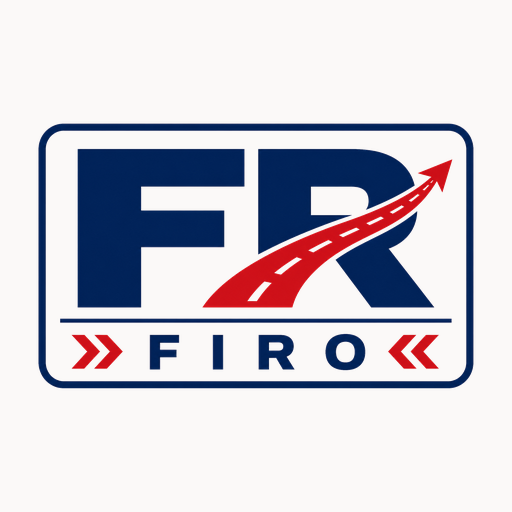
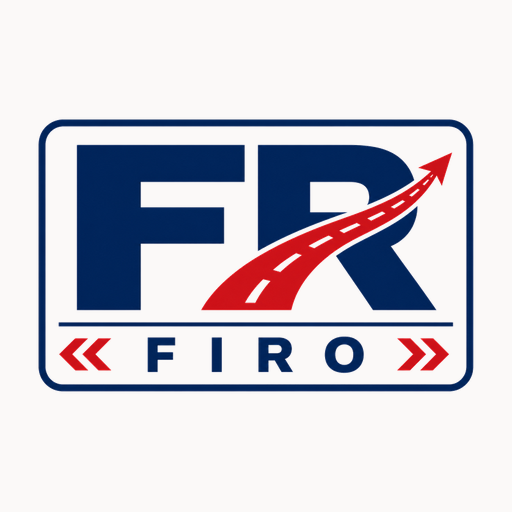
fix: use wide FR badge on login inverse lock-up
Regenerate the approved outward-wing FR/FIRO badge assets and size the
hero inverse mark for the Prisijungimas screen so login no longer shows
the retired spiral wordmark.

diff --git a/tests/unit/approved-first-screens.test.ts b/tests/unit/approved-first-screens.test.ts
@@ -9,11 +9,16 @@ const source = (path: string) => readFileSync(resolve(root, path), 'utf8');
 describe('approved first screens', () => {
   it('uses the approved navy-burgundy transparent FiRo asset on login and driver chrome', () => {
     const brand = source('src/components/firo-brand.tsx');
+    const gate = source('src/components/local-access-gate.tsx');
     expect(brand).toContain('firo-wordmark-color.png');
     expect(brand).toContain('firo-wordmark-inverse.png');
     expect(brand).toContain('resizeMode="contain"');
     expect(brand).toContain('BADGE_ASPECT');
-    expect(source('src/components/local-access-gate.tsx')).toContain('FIRO · FIBONACCI + ROAD');
+    // Login must use the shared inverse wide badge — never a separate spiral asset.
+    expect(gate).toContain('<FiroBrand hero inverse />');
+    expect(gate).not.toContain('firo-wordmark-color-spiral');
+    expect(gate).not.toContain('tsp-logo');
+    expect(gate).toContain('FIRO · FIBONACCI + ROAD');
     expect(source('src/components/brand-header.tsx')).toContain("variant?: 'default' | 'driver'");
   });
 

diff --git a/src/components/firo-brand.tsx b/src/components/firo-brand.tsx
@@ -16,11 +16,12 @@ const inverseWordmarkSource = require('../../assets/brand/firo-wordmark-inverse.
   readonly uri: string;
 };
 
-/** Wide FR / FIRO badge aspect (~1.63). Keep render boxes matched to avoid letterboxing. */
-const BADGE_ASPECT = 720 / 442;
+/** Wide FR / FIRO badge aspect (~1.59). Keep render boxes matched to avoid letterboxing. */
+const BADGE_ASPECT = 720 / 454;
 
 function badgeSize(kind: 'compact' | 'default' | 'hero'): { width: number; height: number } {
-  const height = kind === 'compact' ? 48 : kind === 'hero' ? 112 : 60;
+  // Compact fits BrandHeader next to the profile control; hero is the login lock-up.
+  const height = kind === 'compact' ? 48 : kind === 'hero' ? 128 : 60;
   return { width: Math.round(height * BADGE_ASPECT), height };
 }
 

diff --git a/tests/unit/brand-consistency.test.ts b/tests/unit/brand-consistency.test.ts
@@ -20,7 +20,7 @@ describe('FiRo visual identity across employee modules', () => {
 
     expect(brand).toContain('firo-wordmark-color.png');
     expect(brand).toContain('BADGE_ASPECT');
-    expect(brand).toMatch(/720\s*\/\s*442/);
+    expect(brand).toMatch(/720\s*\/\s*454/);
     expect(layout).toContain('<StackBrandTitle title={children} />');
     expect(layout).toContain('headerStyle: { backgroundColor: colors.surface }');
     expect(header).toContain('<FiroBrand compact />');

diff --git a/scripts/generate-firo-assets.py b/scripts/generate-firo-assets.py
@@ -140,13 +140,12 @@ def main() -> None:
   # Preserve a copy as the committed approved source.
   approved_png = BRAND / 'firo-approved-source.png'
   approved_jpg = BRAND / 'firo-approved-source.jpg'
-  if source_path.suffix.lower() in {'.jpg', '.jpeg'}:
-    shutil.copy2(source_path, approved_jpg)
-    Image.open(source_path).convert('RGB').save(approved_jpg, quality=95, optimize=True)
-    Image.open(source_path).convert('RGBA').save(approved_png)
-  else:
-    shutil.copy2(source_path, approved_png)
-    Image.open(source_path).convert('RGB').save(approved_jpg, quality=95, optimize=True)
+  if source_path.resolve() != approved_png.resolve():
+    if source_path.suffix.lower() in {'.jpg', '.jpeg'}:
+      Image.open(source_path).convert('RGBA').save(approved_png)
+    else:
+      shutil.copy2(source_path, approved_png)
+  Image.open(source_path).convert('RGB').save(approved_jpg, quality=95, optimize=True)
 
   full_canvas = make_transparent(Image.open(source_path))
   full_art = crop_visible(full_canvas)
